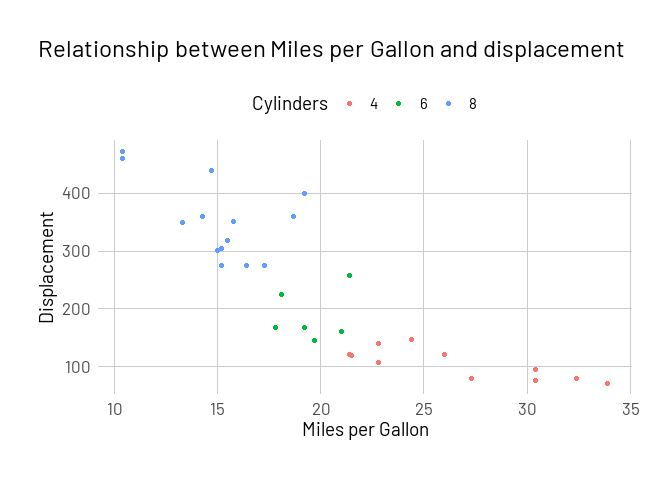
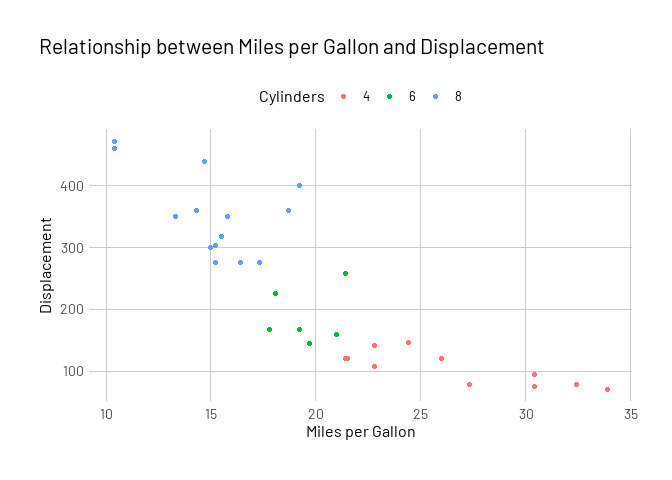
Changed Readme

diff --git a/README.md b/README.md
@@ -34,7 +34,7 @@ library(ggplot2)
 example_plot <- ggplot(mtcars, aes(x = mpg, y = disp, 
                                    colour = as.factor(cyl))) +
   geom_point() +
-  labs(title = "Relationship between Miles per Gallon and displacement",
+  labs(title = "Relationship between Miles per Gallon and Displacement",
        x = "Miles per Gallon",
        y = "Displacement",
        colour = "Cylinders")
@@ -49,7 +49,7 @@ and a cleaner look. Additionally the position of the legend is moved up.
 
 ``` r
 # Set the custom theme globally.
-plotutils::set_custom_theme()
+plotutils::set_custom_theme(base_size = 12)
 
 example_plot
 ```
